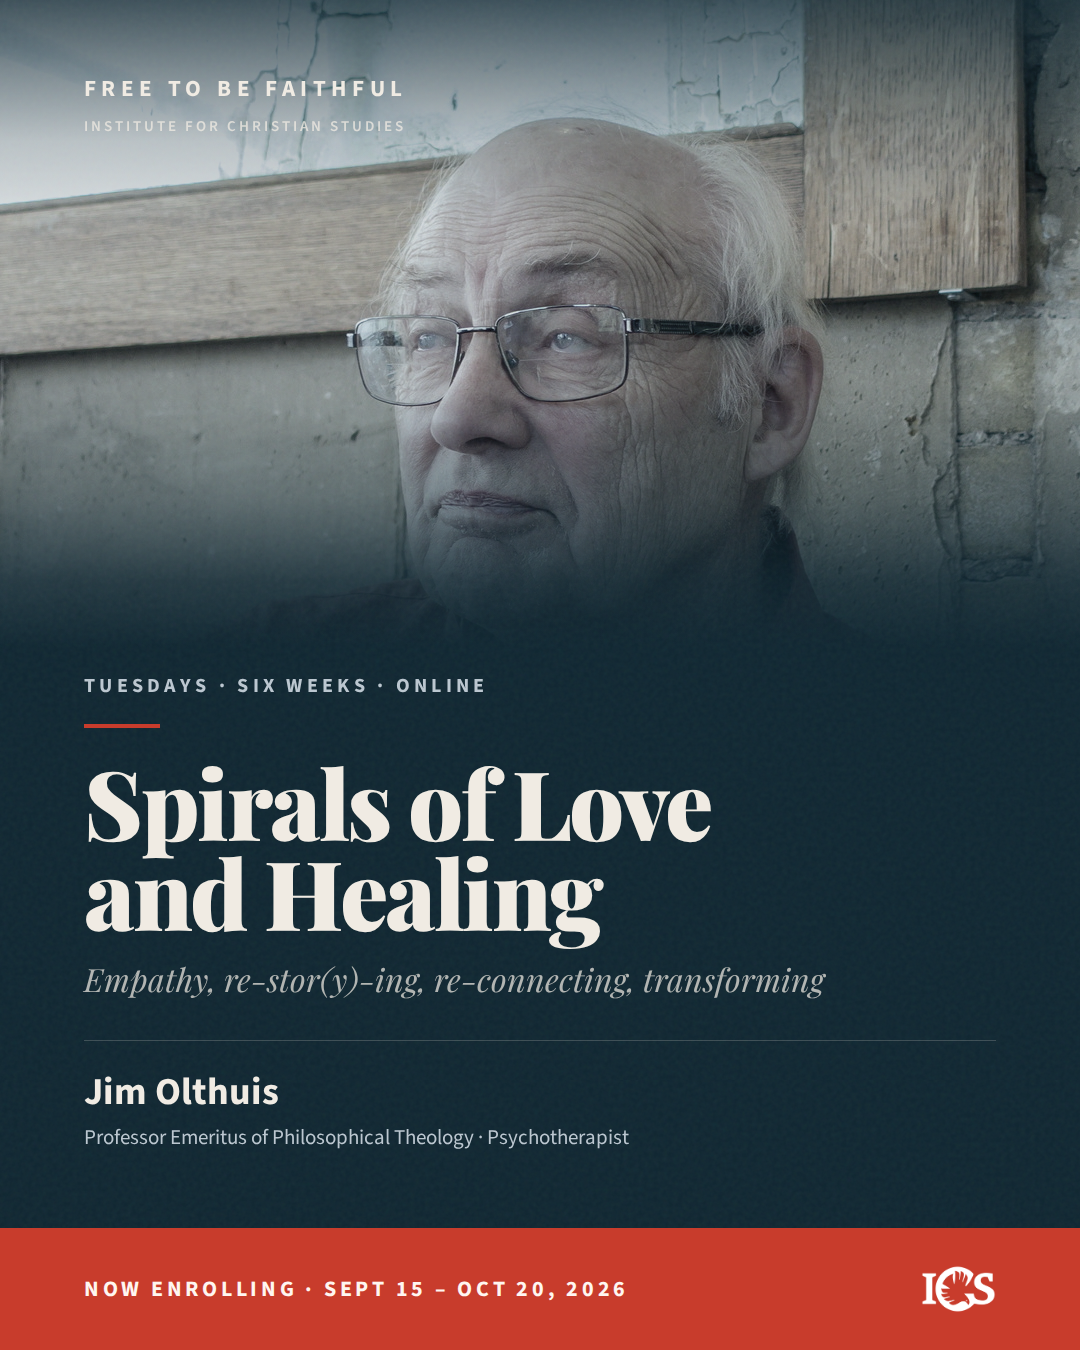
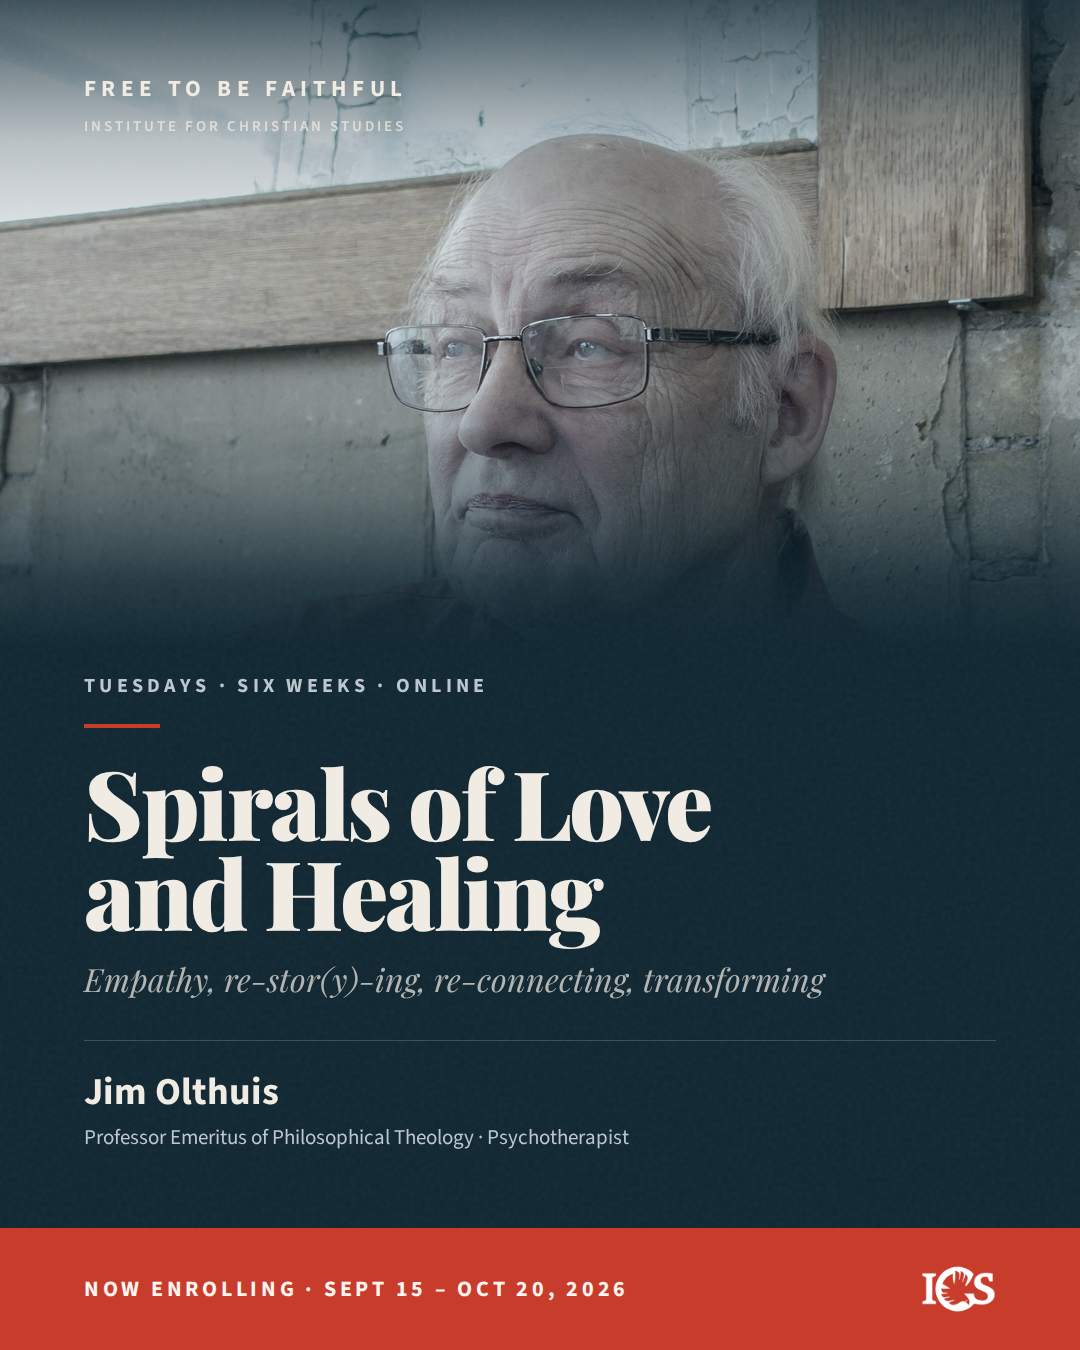
f2bf - fall 2026- social tiles

Changed region(s): [[0.0, 0.0, 1.0, 0.4356], [0.3361, 0.0, 0.3667, 0.0311], [0.275, 0.0622, 0.3056, 0.0933]]

diff --git a/social/2026-27-tiles.html b/social/2026-27-tiles.html
@@ -14,7 +14,7 @@
                  unlike source photographs read as one series. The ICS dove signs it.
   STORY ........ A scholar you can name is teaching six evenings on a question you
                  already carry. It starts on a date. You can join.
-  FIRST VIEWPORT An 830px portrait plate, crown at y=100 and chin at y=615 on BOTH
+  FIRST VIEWPORT An 830px portrait plate, crown at y=140 and chin at y=620 on BOTH
                  tiles, dissolving into solid teal before the type begins. Lower-left:
                  meta caps, red rule, title at 96px/0.94, italic subtitle, instructor
                  and affiliation. A red band seals the bottom edge with the enrolment
@@ -22,8 +22,15 @@
   FORM ......... Bill/poster. Shaped directly as a local extension of an established
                  world (new-work §3), not dealt by a concept seed.
 
-  Plates are pre-cropped by the script in the commit that added this file; the crop
-  boxes put both heads at identical coordinates so the series reads as a set.
+  Plates are cut by social/make-plates.py -- re-run it if a source photo changes.
+  It registers the HEAD BOX (crown and chin) rather than the eye line: Olthuis
+  sits chin-up in a three-quarter turn against Berglund's level frontal pose, and
+  that foreshortening means no crop can match both. Matching the box is what makes
+  the pair read as a set; the ~36px residual eye-line offset is the cost of the
+  pose difference. Neither sitter is centred, and neither offset is a composition
+  choice -- Berglund's crop is flush to the left edge of a 1000px source and
+  Olthuis's spans nearly the full width of his, so each is as close to the middle
+  as his photograph allows. See the script's header for the full derivation.
 -->
 <html lang="en-CA">
 <head>

diff --git a/social/make-plates.py b/social/make-plates.py
@@ -1,0 +1,154 @@
+#!/usr/bin/env python3
+"""
+Cut the 1080x830 portrait plates for the F2BF course tiles.
+
+WHY THIS EXISTS
+    The first pass at these plates was cut by hand and the numbers drifted:
+    the two heads sat 25-35px apart vertically and 98px apart horizontally,
+    and both chins landed below the point where the tile's wash goes solid,
+    so the jaws were erased and the lower faces read as murk. This script
+    puts the crop under version control so the series can be re-cut exactly.
+
+THE REGISTRATION RULE
+    Register the HEAD BOX -- crown and chin -- not the eye line.
+
+    Olthuis sits with his chin up in a three-quarter turn; Berglund is
+    frontal and level. That pose difference foreshortens Olthuis's forehead,
+    so no single crop can match both the crown/chin box and the eye line.
+    Matching the box is the better trade: it makes the two heads occupy an
+    identical rectangle, which is what carries the "these are a set" read in
+    a feed. The residual eye-line offset (~36px, down from 68px) is the
+    irreducible cost of the pose difference.
+
+THE VERTICAL BUDGET
+    HEAD_TOP is floored at ~140 because the masthead's second line
+    ("INSTITUTE FOR CHRISTIAN STUDIES") occupies y=118-133 and runs to
+    x=405 -- straight through where Berglund's hair would be. HEAD_BOTTOM
+    is capped near 620 because the tile's type field begins at y~635 and
+    the wash must be solid by then. Those two walls are 480px apart, which
+    is what sets HEAD_HEIGHT.
+
+SOURCE LIMITS (both sitters are pinned, in opposite directions)
+    Berglund's winter portrait exists only at 1000x1000, and his head sits
+    left in that frame, so his crop is flush to the source's left edge --
+    he cannot move further right than x~445 without upscaling harder.
+    Olthuis's crop already spans almost the full width of his 2268px
+    source, so he cannot move further left than x~594. A symmetric pair
+    is therefore unreachable; the offsets below are each sitter's best
+    available position, not a chosen composition.
+
+USAGE
+    python3 social/make-plates.py            # writes social/plate-*.jpg
+    python3 social/make-plates.py --check    # report only, touch nothing
+"""
+
+import sys
+from PIL import Image
+
+PLATE_W, PLATE_H = 1080, 830
+
+# --- registration targets, in plate space -----------------------------------
+HEAD_TOP    = 140            # crown; floored by the masthead's second line
+# Crown-to-chin. The floor is ~479: below that, Olthuis's crop needs more
+# width than his 2268px source has. The ceiling is ~480 before the chin
+# starts pushing into the type field. There is exactly one usable value.
+HEAD_HEIGHT = 480            # chin lands at 620
+CANVAS_MID  = PLATE_W / 2
+
+# --- sitters ----------------------------------------------------------------
+# Landmarks are in SOURCE pixels. They were recovered by correlation-matching
+# the shipped plates back onto their originals (Berglund: 777x597 crop at
+# 1.390x from left=0,top=74.8; Olthuis: 2160x1660 crop at 0.500x from
+# left=96,top=368), then mapping the measured plate landmarks through that
+# transform. Re-measure only if the source files themselves change.
+SITTERS = [
+    {
+        'name':   'berglund',
+        'src':    'assets/img/_originals/BruceBerglund.png',   # 1000x1000
+        'out':    'social/plate-berglund.jpg',
+        'crown':  177.7,
+        'chin':   546.0,
+        'eye':    368.3,
+        'mid_x':  343.2,
+        # Frontal sitter: aim for the canvas centre. The clamp below will pull
+        # him left to ~445, because the source runs out of photograph first.
+        'want_x': CANVAS_MID,
+    },
+    {
+        'name':   'olthuis',
+        'src':    'assets/img/_originals/JimOlthuis.jpg',      # 2268x2268
+        'out':    'social/plate-olthuis.jpg',
+        'crown':  604.0,
+        'chin':   1608.0,
+        'eye':    1048.0,
+        'mid_x':  1246.0,
+        # Turned sitter: offset against the gaze so the lead room falls on the
+        # side he is looking toward. Clamps to ~594.
+        'want_x': CANVAS_MID + 95,
+    },
+]
+
+
+def plan(s, src_w, src_h):
+    """Return the crop box in source pixels, plus a report of any clamping."""
+    head_src = s['chin'] - s['crown']
+    scale = HEAD_HEIGHT / head_src
+    crop_w, crop_h = PLATE_W / scale, PLATE_H / scale
+
+    notes = []
+    if crop_w > src_w or crop_h > src_h:
+        raise SystemExit(
+            f"{s['name']}: HEAD_HEIGHT={HEAD_HEIGHT} needs a "
+            f"{crop_w:.0f}x{crop_h:.0f} crop from a {src_w}x{src_h} source. "
+            f"Raise HEAD_HEIGHT to at least "
+            f"{head_src * max(PLATE_W / src_w, PLATE_H / src_h):.0f}."
+        )
+
+    left = s['mid_x'] - s['want_x'] / scale
+    top = s['crown'] - HEAD_TOP / scale
+
+    clamped_left = min(max(left, 0.0), src_w - crop_w)
+    clamped_top = min(max(top, 0.0), src_h - crop_h)
+    if abs(clamped_left - left) > 0.5:
+        got = (s['mid_x'] - clamped_left) * scale
+        notes.append(f"x pinned by source edge: wanted {s['want_x']:.0f}, got {got:.0f}")
+    if abs(clamped_top - top) > 0.5:
+        notes.append(f"y pinned by source edge: crown off target by "
+                     f"{(clamped_top - top) * scale:+.0f}px")
+
+    return clamped_left, clamped_top, crop_w, crop_h, scale, notes
+
+
+def main():
+    check_only = '--check' in sys.argv
+    print(f'plate {PLATE_W}x{PLATE_H} | head box: crown {HEAD_TOP} -> '
+          f'chin {HEAD_TOP + HEAD_HEIGHT} ({HEAD_HEIGHT}px)\n')
+
+    for s in SITTERS:
+        img = Image.open(s['src'])
+        src_w, src_h = img.size
+        left, top, crop_w, crop_h, scale, notes = plan(s, src_w, src_h)
+
+        # Where the landmarks actually land once cropped.
+        at = lambda v: (v - top) * scale
+        mid_x = (s['mid_x'] - left) * scale
+
+        print(f"{s['name']:9s} {src_w}x{src_h} -> crop "
+              f"{crop_w:.0f}x{crop_h:.0f} @ ({left:.0f},{top:.0f})  "
+              f"scale {scale:.3f}{'  [UPSCALE]' if scale > 1 else ''}")
+        print(f"          crown {at(s['crown']):.0f}  eye {at(s['eye']):.0f}  "
+              f"chin {at(s['chin']):.0f}  centre x {mid_x:.0f}")
+        for n in notes:
+            print(f'          note: {n}')
+
+        if not check_only:
+            plate = img.convert('RGB').resize(
+                (PLATE_W, PLATE_H), Image.LANCZOS,
+                box=(left, top, left + crop_w, top + crop_h))
+            plate.save(s['out'], quality=92, subsampling=0)
+            print(f"          wrote {s['out']}")
+        print()
+
+
+if __name__ == '__main__':
+    main()
